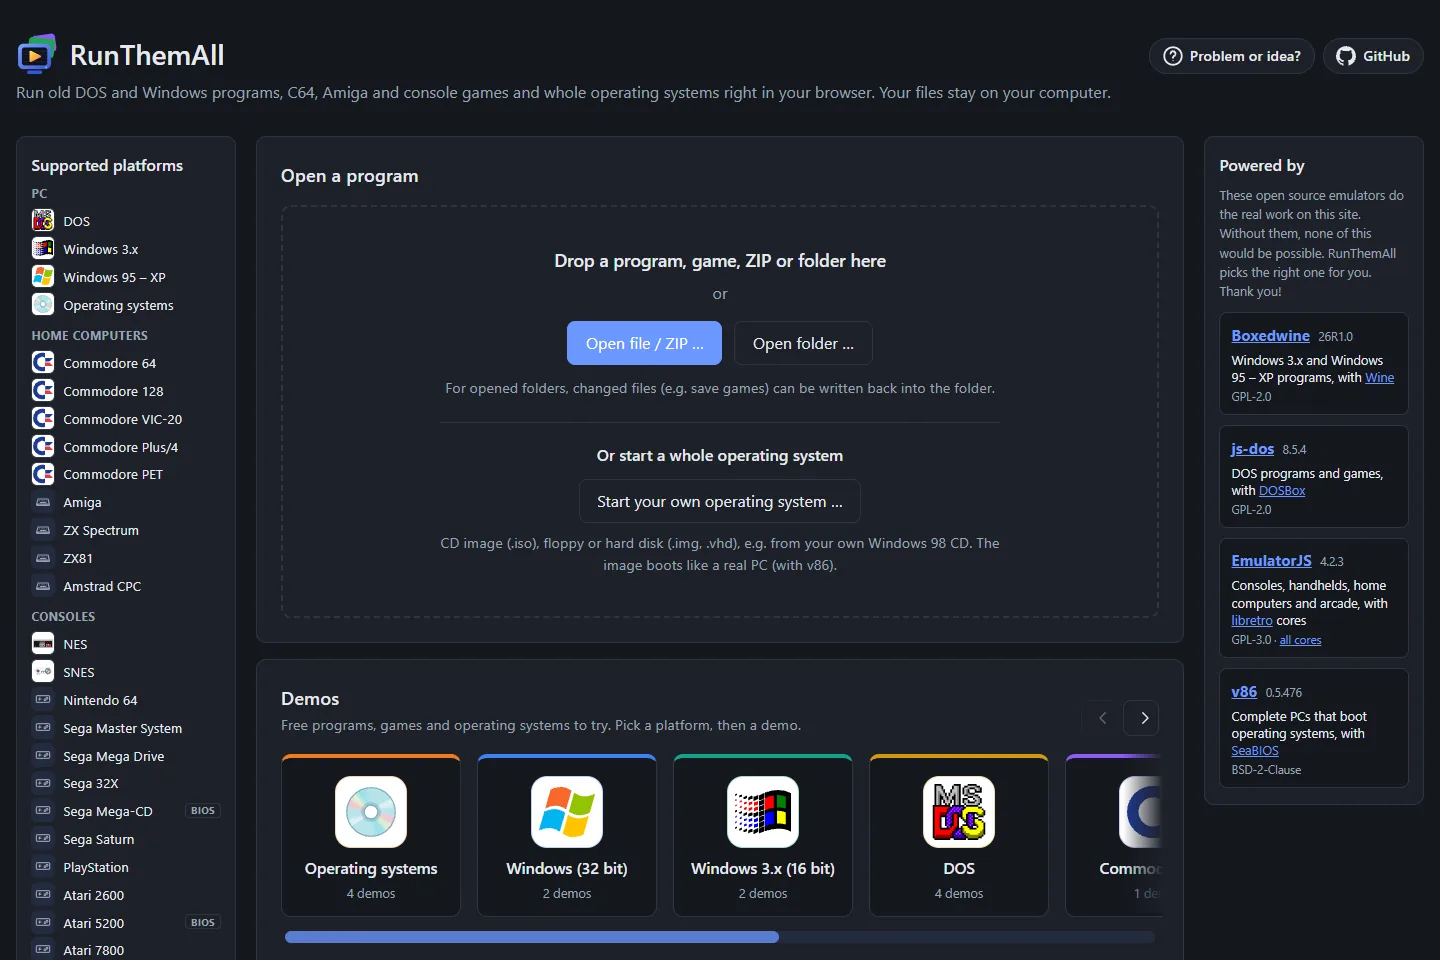
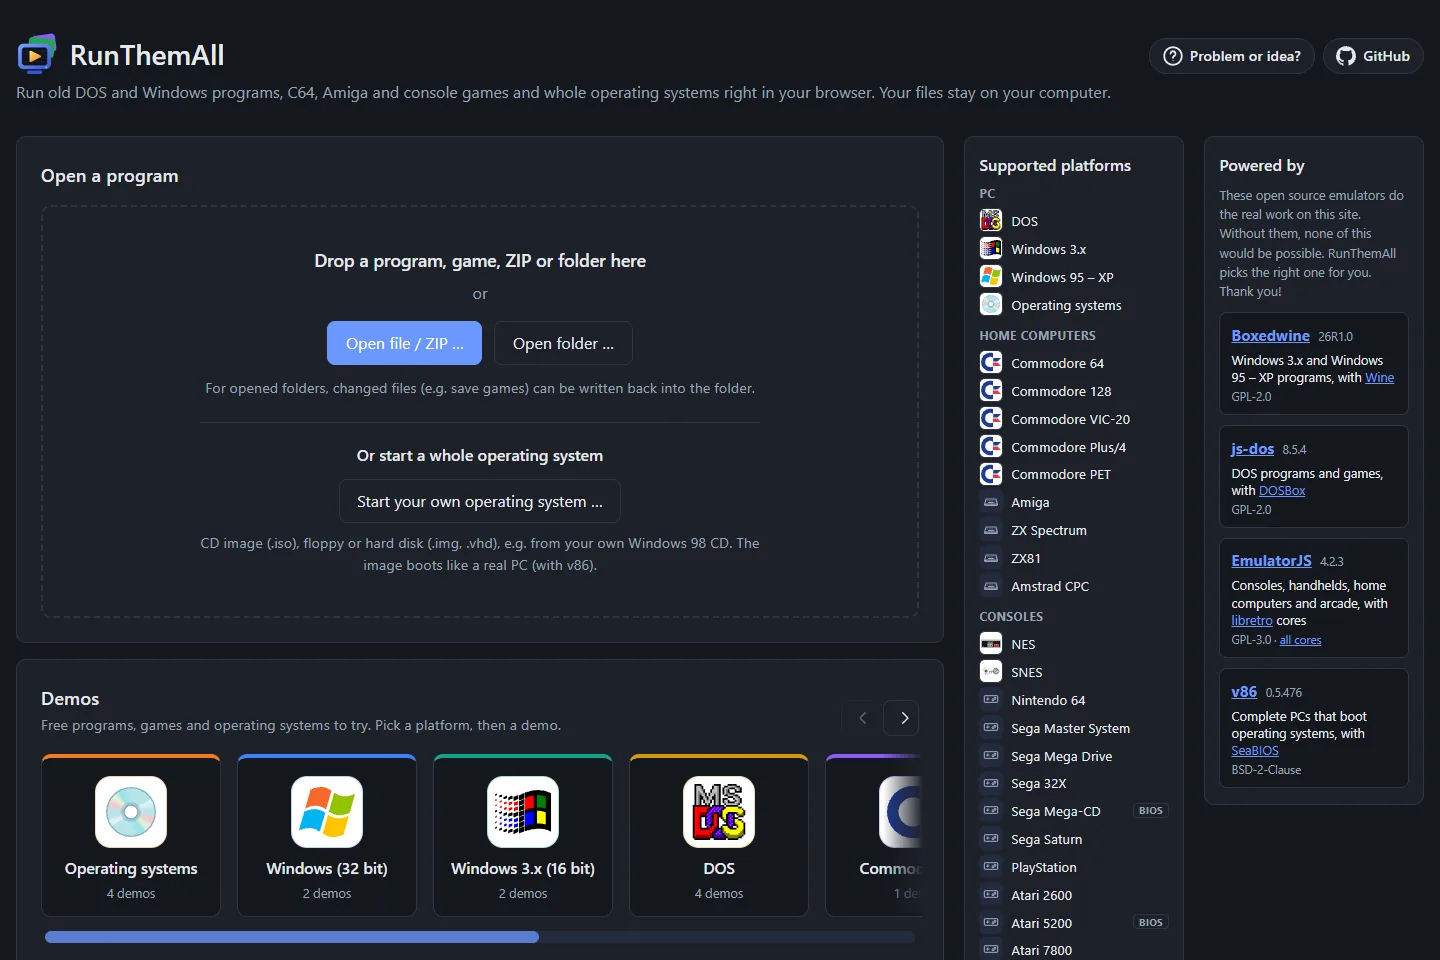
Put platforms and emulators side by side right of the main column
Claude-Session: https://claude.ai/code/session_01QeCYKokdrKQYJptX2YrFcs

diff --git a/site/style.css b/site/style.css
@@ -239,26 +239,32 @@ select {
 .screen:fullscreen { width: 100vw; height: 100vh; border-radius: 0; background: #000; }
 /* The emulators fill the area; js/fit.js scales canvases to the new size. */
 
-/* Layout: platforms on the left, main column, emulators on the right */
+/* Layout: main column, then platforms and emulators side by side on the right */
 .layout {
   flex: 1; width: min(1480px, 100% - 2rem);
-  display: grid; grid-template-columns: 220px minmax(0, 1fr) 220px; gap: 1.25rem; align-items: start;
+  display: grid; grid-template-columns: minmax(0, 1fr) 220px 220px; gap: 1.25rem; align-items: start;
 }
+.layout > main { grid-column: 1; grid-row: 1; }
+.layout > .platforms { grid-column: 2; grid-row: 1; }
+.layout > .emulators { grid-column: 3; grid-row: 1; }
 .site-header .wrap, .site-footer .wrap { width: min(1480px, 100% - 2rem); }
 .layout:has(> .platforms[hidden]) { grid-template-columns: minmax(0, 1fr); }
 @media (max-width: 1200px) {
-  /* emulators move below the main column */
-  .layout { grid-template-columns: 220px minmax(0, 1fr); grid-template-rows: auto 1fr; }
-  .layout > .platforms { grid-row: span 2; }
-  .layout > .emulators { grid-column: 2; margin-top: 0; }
-  .layout > main { padding-bottom: 0; }
-  .emu-list { display: grid; grid-template-columns: repeat(auto-fill, minmax(200px, 1fr)); gap: .6rem; }
+  .layout { grid-template-columns: minmax(0, 1fr) 200px 200px; gap: 1rem; }
 }
-@media (max-width: 900px) {
-  .layout { grid-template-columns: minmax(0, 1fr); grid-template-rows: none; }
-  .layout > .platforms { order: 2; grid-row: auto; }
-  .layout > .emulators { order: 3; grid-column: auto; }
-  .platforms #platform-list { columns: 2 180px; }
+@media (max-width: 960px) {
+  /* main column on top, platforms and emulators side by side below it */
+  .layout { grid-template-columns: minmax(0, 1fr) minmax(0, 1fr); }
+  .layout > main { grid-column: 1 / -1; grid-row: 1; padding-bottom: 0; }
+  .layout > .platforms { grid-column: 1; grid-row: 2; }
+  .layout > .emulators { grid-column: 2; grid-row: 2; }
+}
+@media (max-width: 600px) {
+  /* one column: main, then platforms, then emulators */
+  .layout { grid-template-columns: minmax(0, 1fr); }
+  .layout > main, .layout > .platforms, .layout > .emulators { grid-column: auto; grid-row: auto; }
+  .layout > .platforms { order: 2; }
+  .layout > .emulators { order: 3; margin-top: 0; }
 }
 
 /* Side panels (platforms, emulators) */

diff --git a/docs/specification.md b/docs/specification.md
@@ -30,8 +30,8 @@ How RunThemAll works inside. As of November 2026.
 
 ## 3. User flow
 
-The start page has three columns: supported platforms on the left (3.3), in the middle *Open a program*
-and the demo carousel (3.2), the emulators on the right (3.3). The interface is in English.
+The start page has three columns: *Open a program* and the demo carousel (3.2) on the left, then side by
+side the supported platforms and the emulators (3.3). The interface is in English.
 
 1. **Open**: file picker (any file or ZIP), folder picker or drag & drop.
    - A single ZIP is unpacked in the browser.
@@ -84,16 +84,15 @@ and the demo carousel (3.2), the emulators on the right (3.3). The interface is 
 
 ### 3.3 Supported platforms and emulators
 
-- A sidebar on the left of the start page lists every supported platform, grouped
+- A sidebar right of the main column lists every supported platform, grouped
   (PC, home computers, consoles, handhelds, arcade), with logo or icon.
 - It is built from `SUPPORTED_GROUPS` in `js/platforms.js` and the system table in `js/systems.js`,
   so it matches what the detection supports. Systems that need an original BIOS are marked "BIOS".
 - Hovering a platform shows a tooltip with its emulator (e.g. "Runs with EmulatorJS (core snes9x)") and
-  highlights that emulator in the right sidebar.
-- The right sidebar lists the emulators (Boxedwine, js-dos, EmulatorJS, v86) with version (from the
+  highlights that emulator in the sidebar next to it.
+- The sidebar on the far right (*Powered by*) lists the emulators (Boxedwine, js-dos, EmulatorJS, v86) with version (from the
   `version.json` files), what they run, licence and link.
-- Between 900 and 1200 px the emulators move below the main column; on narrow screens both sidebars move
-  below the demos. While a program runs both are hidden.
+- Below 960 px both sidebars move side by side below the demos; below 600 px they stack. While a program runs both are hidden.
 
 ### 3.4 Picture and sound
 

diff --git a/README.md b/README.md
@@ -39,7 +39,7 @@ No time? Click one of the **demos** and press **Start**.
 - **Whole operating systems** from a CD, floppy or hard disk image, e.g. Linux, ReactOS or your own
   Windows 98 CD
 
-The page lists all 41 platforms on the left. Details and file types: [docs/systems.md](docs/systems.md)
+The page lists all 41 platforms on the right. Details and file types: [docs/systems.md](docs/systems.md)
 
 ## Demos
 
